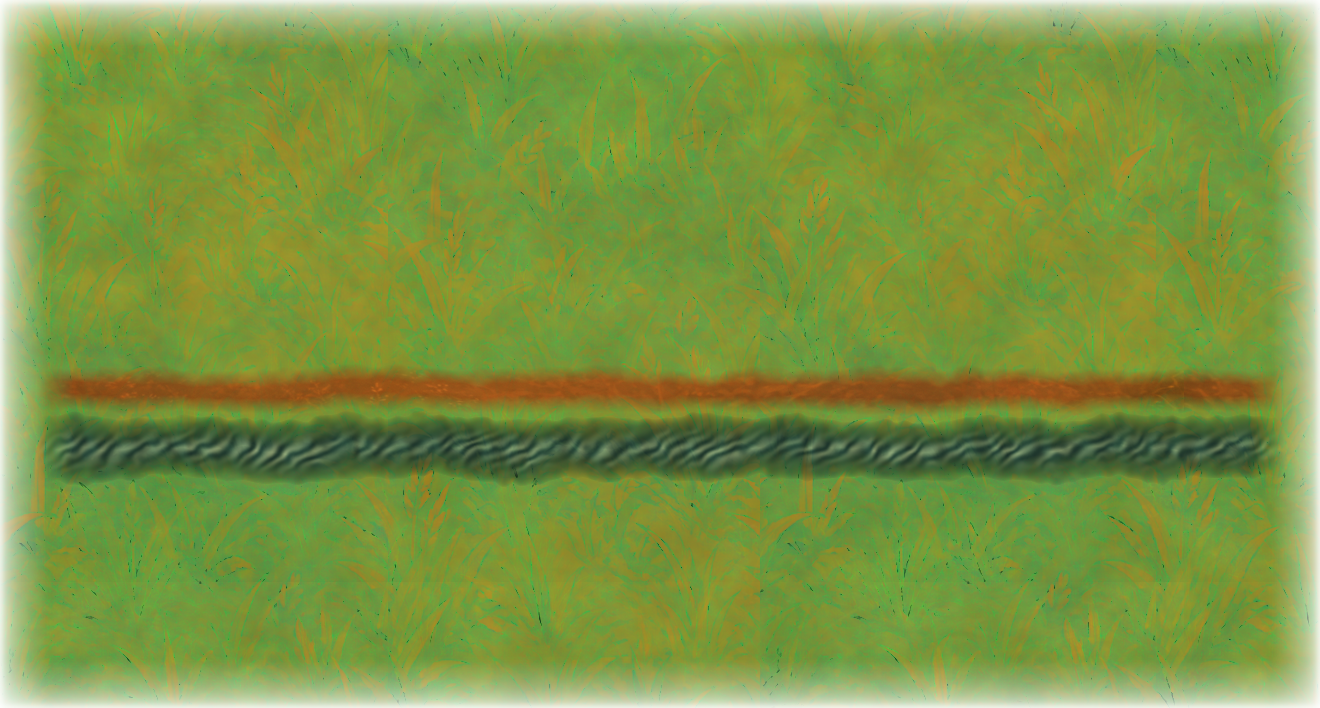
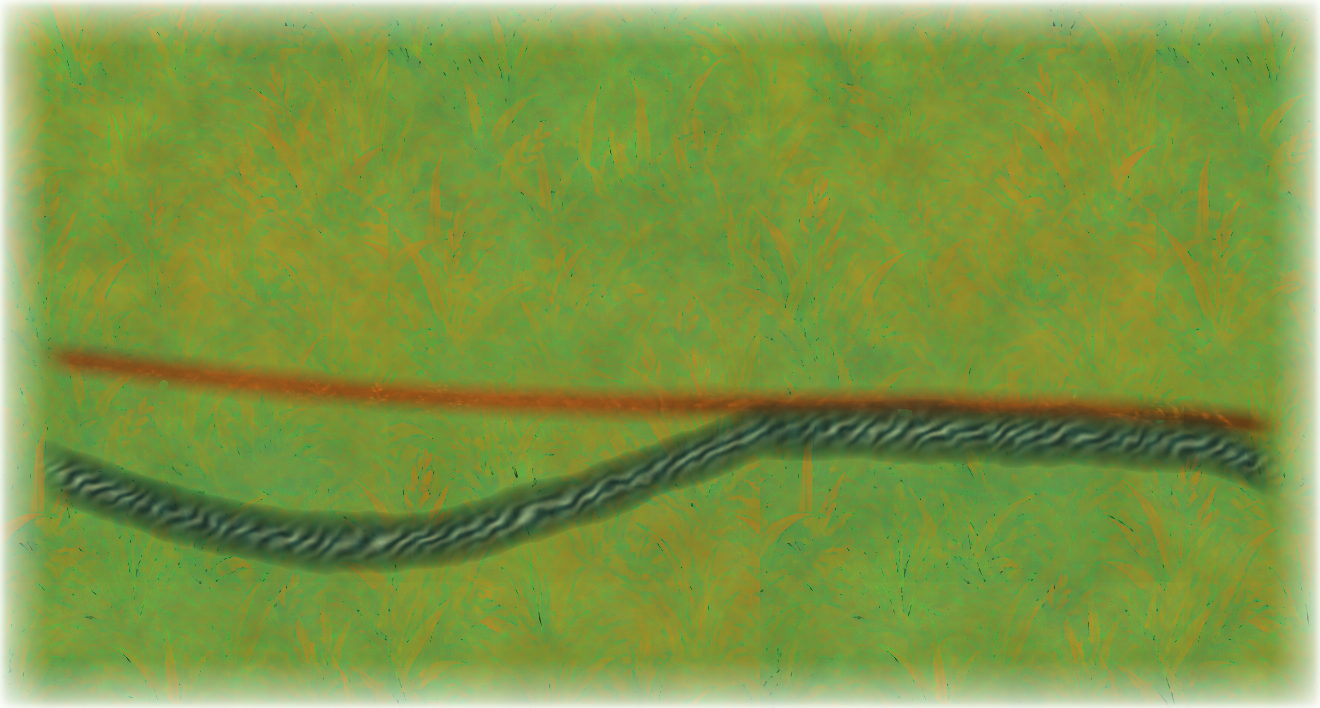
Bend the valley path and creek so the floor is not three bands.
The road slants. The water bows. Grass comes through the middle. Cover art is untouched.

Changed region(s): [[0.0311, 0.4661, 0.9629, 0.8079]]

diff --git a/godot/project.test.ts b/godot/project.test.ts
@@ -73,6 +73,7 @@ test("Valley look is one dusk illustration, not DST stickers", () => {
   assert.match(valley, /ground-valley/);
   assert.match(valley, /prop-hut|prop-lodge/);
   assert.match(valley, /floor-valley/);
+  assert.match(valley, /_bend\(/);
   assert.doesNotMatch(valley, /band-river|band-path|band-meadow/);
   assert.ok(existsSync("godot/assets/art/floor-valley.png"));
   assert.doesNotMatch(valley, /_tile\(/);

diff --git a/tools/paint_valley_sit.py b/tools/paint_valley_sit.py
@@ -300,9 +300,19 @@ def plant_sit(name: str) -> None:
     save(out, name)
 
 
+def path_center(wx: np.ndarray) -> np.ndarray:
+    fx = wx / 1224.0
+    return 308.0 + fx * 82.0 + 15.0 * np.sin(fx * 1.7 * np.pi)
+
+
+def creek_center(wx: np.ndarray) -> np.ndarray:
+    fx = wx / 1224.0
+    raw = 420.0 + 75.0 * np.sin(fx * 2.0 * np.pi)
+    return np.maximum(raw, path_center(wx) + 26.0)
+
+
 def paint_floor() -> Image.Image:
-    # One playable floor. Grass holds the middle. Path and creek are painted in.
-    # Soft outer fade only — no stacked color rectangles.
+    # One floor. Path slants, creek bends, grass bites the middle.
     pad = 48
     vw, vh = 1224, 612
     w, h = vw + pad * 2, vh + pad * 2
@@ -320,20 +330,22 @@ def paint_floor() -> Image.Image:
     yy, xx = np.indices((h, w))
     wx = xx.astype(np.float32) - pad
     wy = yy.astype(np.float32) - pad
-    wobble = (n - 0.5) * 28.0 + (n2 - 0.5) * 14.0
     span = np.clip((wx + 12.0) / 36.0, 0, 1) * np.clip((vw + 12.0 - wx) / 36.0, 0, 1)
 
-    path_y = 342.0 + wobble * 0.42
-    path_m = np.clip(1.0 - (np.abs(wy - path_y) - 6.0) / 16.0, 0, 1) ** 1.05
+    path_y = path_center(wx)
+    path_half = 7.0 + 5.0 * n + 3.0 * n2
+    path_m = np.clip(1.0 - (np.abs(wy - path_y) - path_half * 0.28) / (path_half + 7.0), 0, 1) ** 1.12
     path_m *= span
+    path_m = np.where((n2 > 0.78) & (np.abs(wy - path_y) > 4.0), path_m * 0.22, path_m)
     path_c = np.clip(d * np.array([1.18, 0.94, 0.56], dtype=np.float32) * (0.96 + 0.10 * n[..., None]), 0, 1)
-    rgb = rgb * (1.0 - path_m * 0.88)[..., None] + path_c * (path_m * 0.88)[..., None]
+    rgb = rgb * (1.0 - path_m * 0.86)[..., None] + path_c * (path_m * 0.86)[..., None]
 
-    creek_y = 400.0 + wobble * 0.58
+    creek_y = creek_center(wx)
     creek_d = np.abs(wy - creek_y)
-    water_m = np.clip(1.0 - (creek_d - 5.0) / 26.0, 0, 1) ** 0.72
+    creek_half = 12.0 + 8.0 * n2 + 4.0 * n
+    water_m = np.clip(1.0 - (creek_d - creek_half * 0.25) / (creek_half + 8.0), 0, 1) ** 0.70
     water_m *= span
-    depth = np.clip(1.0 - creek_d / 24.0, 0, 1)
+    depth = np.clip(1.0 - creek_d / np.maximum(creek_half + 6.0, 1.0), 0, 1)
     ripple = 0.86 + 0.14 * np.sin((wx / 15.0 + n * 3.0) * np.pi)
     spec = np.clip(np.sin((wx / 12.0 + wy / 8.0 + n2 * 3.6) * np.pi) * 0.5 + 0.5, 0, 1)
     spec *= (depth ** 1.35) * (0.22 + 0.78 * n)
